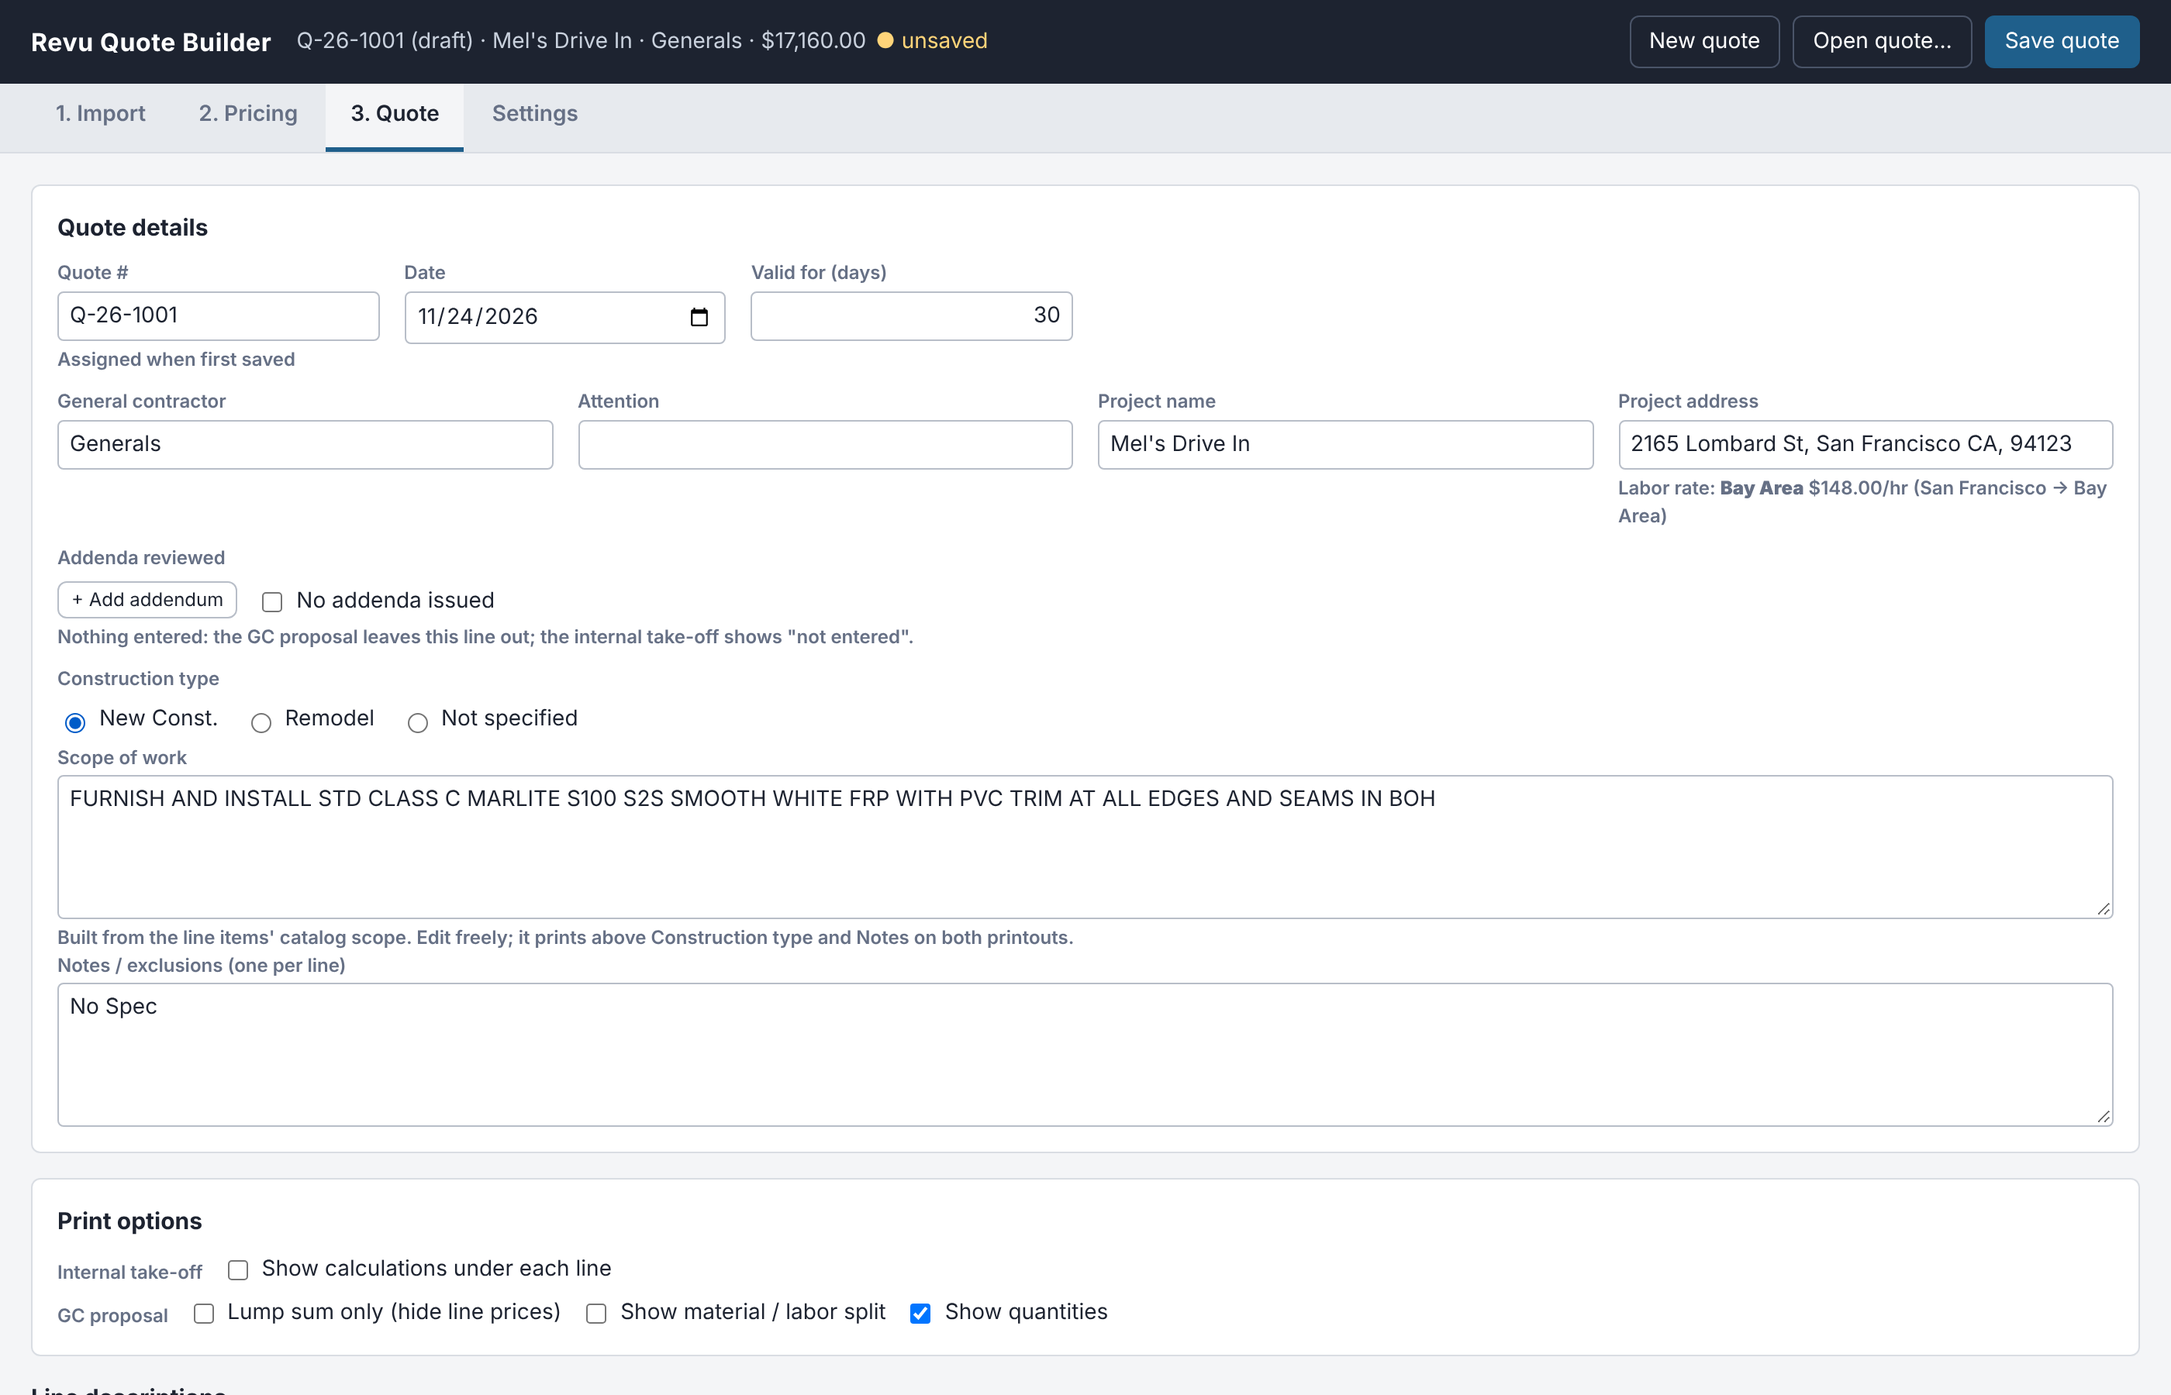
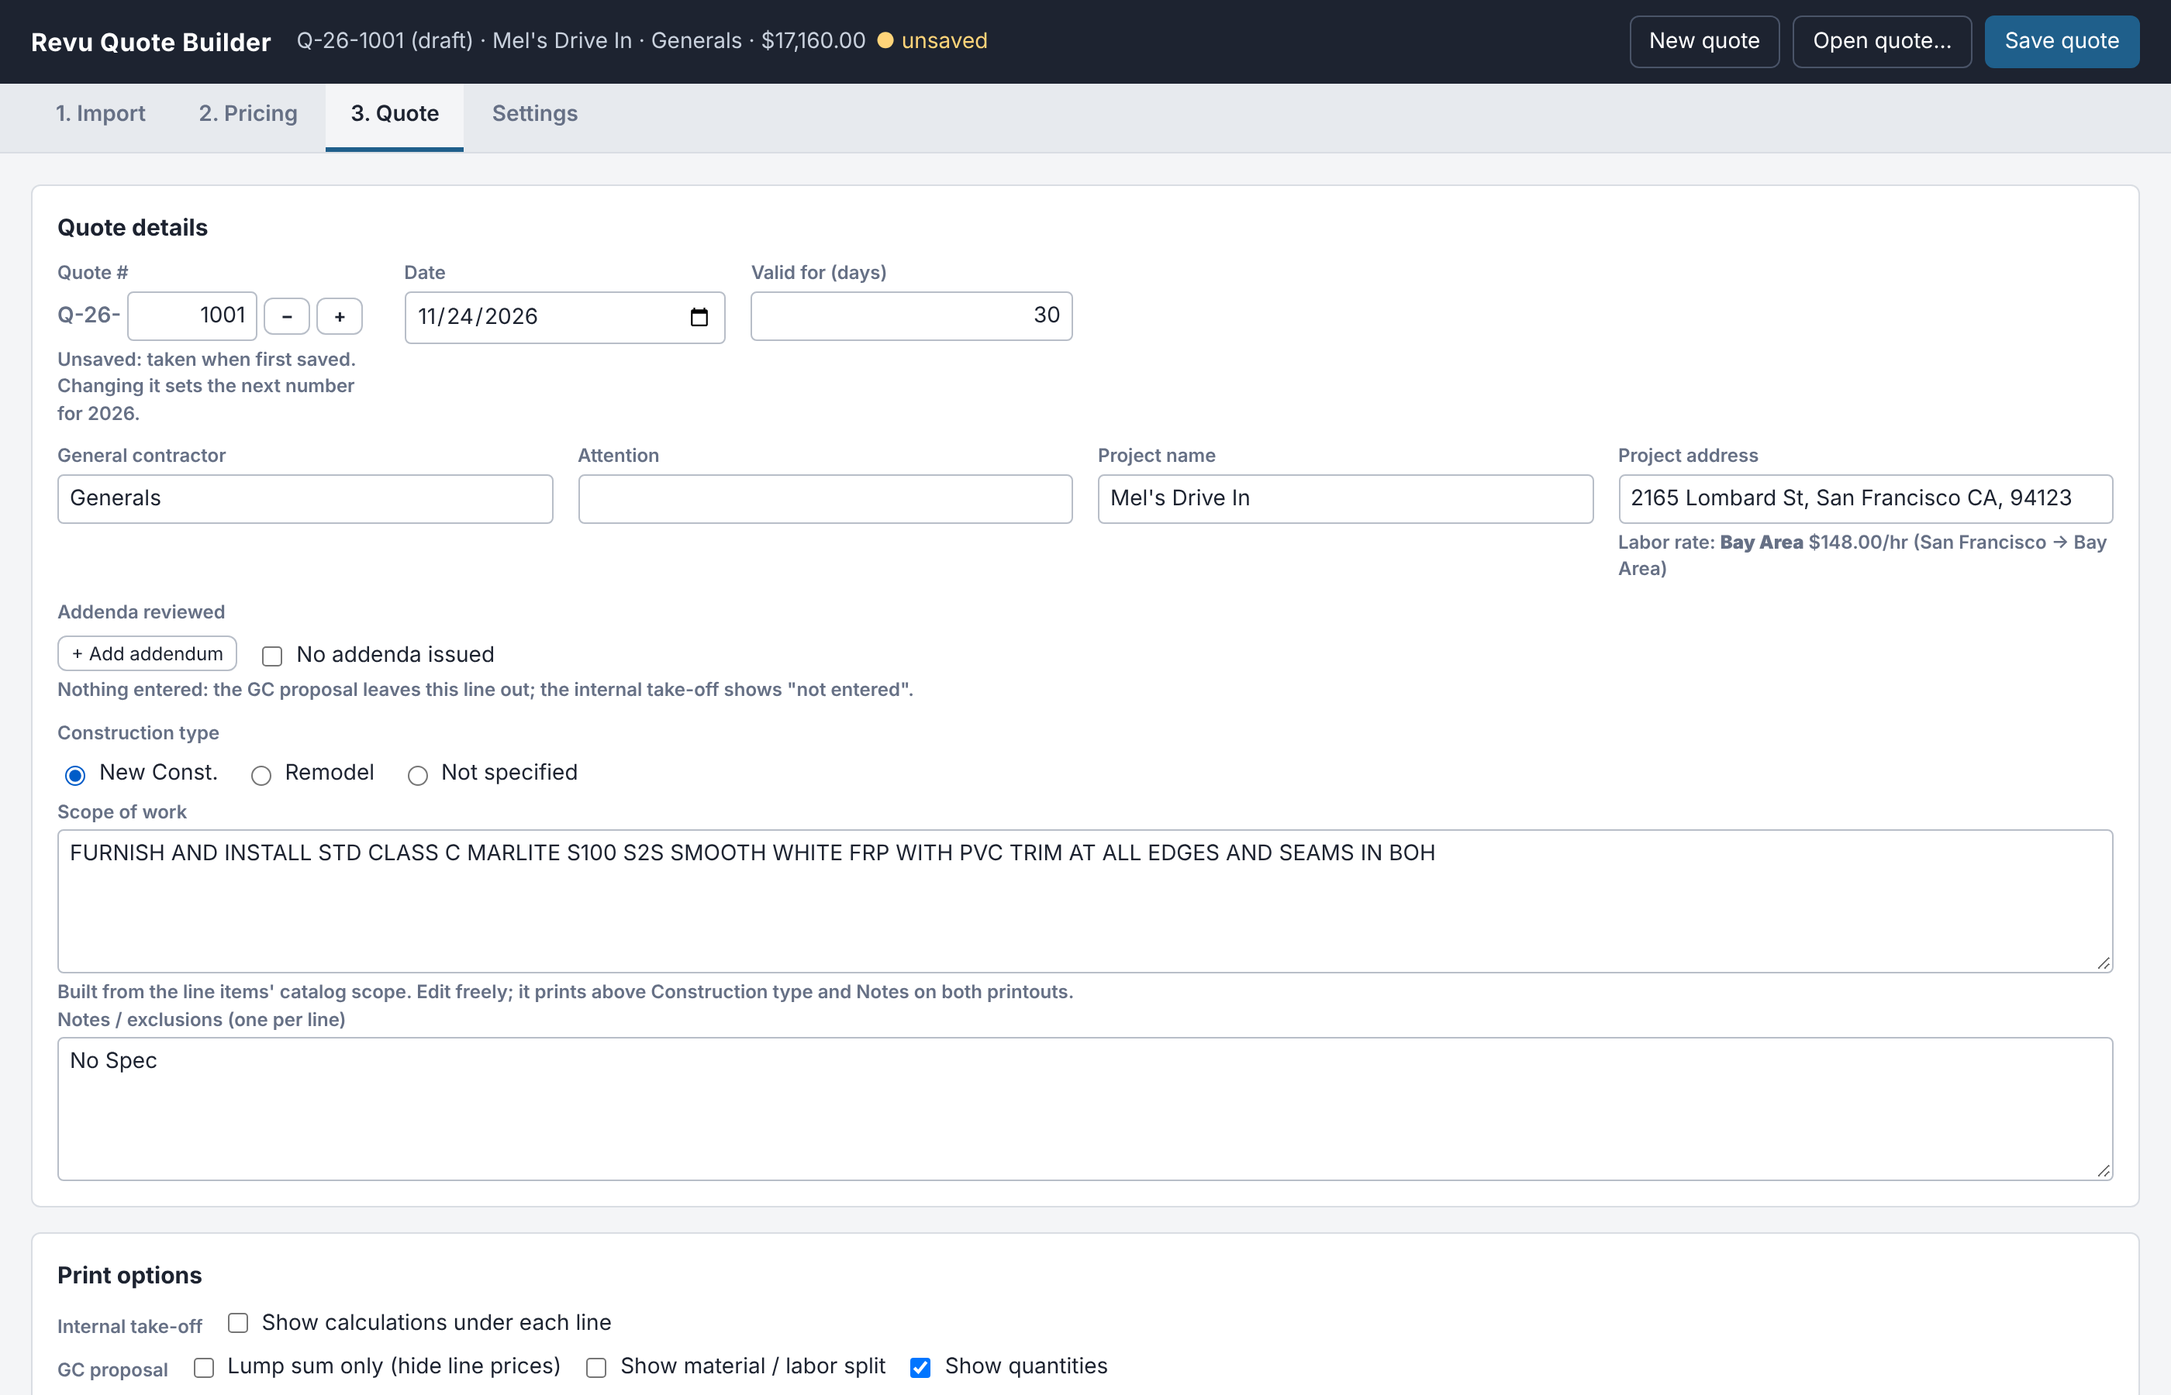
Set or step the quote number (− / +) on the Quote tab and in Settings (#17)
Quote tab number box with − / + (unsaved: sets that year's next number; saved: renumbers that quote and moves the counter past it); − / + on Settings Next quote #; warns when going back to a number already saved; settings v7 seeds the highest-used record; README and screenshot updated.

diff --git a/js/app.js b/js/app.js
@@ -176,6 +176,30 @@
     global.scrollTo(0, scrollY);
   }
 
+  /** Quote # field: "Q-26-" + number box with − / + (or a plain text box for a custom number). */
+  function quoteNumberInput(q) {
+    var parts = Q.splitNumber(q.number);
+    if (!parts) return textInput('q-number', q.number, ' data-q="number"');
+    return '<div class="qnum"><span class="qnum-head" id="q-num-head">' + esc(parts.head) + '</span>' +
+      numInput('q-numpart', parts.n, ' data-qnum="1" style="width:84px"') +
+      '<button type="button" class="small" data-act="qnum-step" data-d="-1" title="One lower">−</button>' +
+      '<button type="button" class="small" data-act="qnum-step" data-d="1" title="One higher">+</button></div>';
+  }
+  function quoteNumberHint(q) {
+    if (q.numberCommitted) return 'Saved number. Changing it renumbers this quote only.';
+    var parts = Q.splitNumber(q.number);
+    var warn = parts ? Q.numberWarning(state.settings, q.date, parts.n) : '';
+    return 'Unsaved: taken when first saved. Changing it sets the next number for ' +
+      (state.settings.quote.includeYear !== false ? (U.parseISODate(q.date) || new Date()).getFullYear() : 'all years') + '.' +
+      (warn ? ' <strong class="warn-text">' + esc(warn) + '</strong>' : '');
+  }
+  function setQuoteNumberPart(n) {
+    if (!isFinite(n) || n < 1) return false;
+    Q.setNumberPart(state.quote, state.settings, n);
+    S.saveSettings(state.settings);
+    return true;
+  }
+
   function addendaHint(q) {
     var t = Q.addendaText(q);
     return t ? 'Prints as: <strong>ADDENDA REVIEWED: ' + esc(t) + '</strong>'
@@ -222,6 +246,12 @@
     if (ah) ah.innerHTML = areaHint();
     var adh = $('#q-addm-hint');
     if (adh) adh.innerHTML = addendaHint(state.quote);
+    var nh = $('#q-num-hint');
+    if (nh) nh.innerHTML = quoteNumberHint(state.quote);
+    var np = $('#q-numpart'), parts = Q.splitNumber(state.quote.number);
+    if (np && parts && doc.activeElement !== np && String(parts.n) !== np.value) np.value = parts.n;
+    var nhd = $('#q-num-head');
+    if (nhd && parts) nhd.textContent = parts.head;
     var qn = $('#q-number');
     if (qn && doc.activeElement !== qn && qn.value !== state.quote.number) qn.value = state.quote.number;
     var prev = $('#preview');
@@ -637,7 +667,7 @@
       '<div class="card">' +
         '<h3>Quote details</h3>' +
         '<div class="grid">' +
-          field('Quote #', textInput('q-number', q.number, ' data-q="number"') + '<span class="hint">' + (q.numberCommitted ? 'Assigned' : 'Assigned when first saved') + '</span>') +
+          field('Quote #', quoteNumberInput(q) + '<span class="hint" id="q-num-hint">' + quoteNumberHint(q) + '</span>') +
           field('Date', '<input type="date" id="q-date" data-q="date"' + attr('value', q.date) + '>') +
           field('Valid for (days)', numInput('q-valid', q.validDays, ' data-q="validDays"')) +
         '</div>' +
@@ -871,7 +901,10 @@
           field('Sales tax on material (%)', numInput('s-tax', s.terms.taxPct, ' data-s="terms.taxPct"')) +
           field('Quote # prefix', textInput('s-prefix', s.quote.prefix, ' data-s="quote.prefix"')) +
           field('Next quote # (' + (s.quote.includeYear !== false ? new Date().getFullYear() : 'all years') + ')',
-            numInput('s-next', Q.nextNumberFor(s, U.toISODate(new Date())), ' data-s="quote.counters.' + Q.counterKey(s, U.toISODate(new Date())) + '"')) +
+            '<div class="qnum">' + numInput('s-next', Q.nextNumberFor(s, U.toISODate(new Date())), ' data-s="quote.counters.' + Q.counterKey(s, U.toISODate(new Date())) + '" style="width:90px"') +
+            '<button type="button" class="small" data-act="next-step" data-d="-1" title="One lower">−</button>' +
+            '<button type="button" class="small" data-act="next-step" data-d="1" title="One higher">+</button></div>' +
+            '<span class="hint warn-text" id="s-next-warn">' + esc(Q.numberWarning(s, U.toISODate(new Date()), Q.nextNumberFor(s, U.toISODate(new Date())))) + '</span>') +
           field('First quote # each year', numInput('s-start', s.quote.startNumber, ' data-s="quote.startNumber"')) +
           '<label class="field"><span>Year in quote #</span><span class="check" style="padding:6px 0"><input type="checkbox" id="s-qyear" data-s="quote.includeYear"' +
             (s.quote.includeYear !== false ? ' checked' : '') + '> Include year</span></label>' +
@@ -1081,6 +1114,11 @@
       return;
     }
     if (t.dataset.map !== undefined) { setMapping(t.dataset.map, t.value); return; }
+    if (t.dataset.qnum !== undefined) {
+      var qn = parseInt(String(t.value).replace(/[^\d]/g, ''), 10);
+      if (setQuoteNumberPart(qn)) changed('light');
+      return;
+    }
     if (t.dataset.addm !== undefined) {
       var ad = (state.quote.addenda || []).filter(function (x) { return x.id === t.dataset.addm; })[0];
       if (!ad) return;
@@ -1104,11 +1142,14 @@
       else if (t.dataset.lines) sv = t.value.split(/\r?\n/).map(function (s) { return s.trim(); }).filter(Boolean);
       else if (t.classList.contains('num')) sv = parseNumOrRaw(t.value);
       else sv = t.value;
+
       setPath(state.settings, t.dataset.s, sv);
       // Switching the year on/off changes which counter "Next quote #" edits: redraw Settings.
       settingsChanged(t.dataset.s === 'quote.includeYear' ? 'full' : undefined);
       var qp = $('#s-qpreview');
       if (qp) qp.value = Q.formatQuoteNumber(state.settings, U.toISODate(new Date()));
+      var sw = $('#s-next-warn');
+      if (sw) sw.textContent = Q.numberWarning(state.settings, U.toISODate(new Date()), Q.nextNumberFor(state.settings, U.toISODate(new Date())));
       var dr = $('#s-dayrate');
       if (dr) dr.value = dayRatesText(state.settings.labor);
       return;
@@ -1179,6 +1220,21 @@
         if (Object.keys(keep).length) q.lineOverrides[b.dataset.line] = keep;
         else delete q.lineOverrides[b.dataset.line];
         changed();
+        break;
+      }
+      case 'qnum-step': {
+        var cur = Q.splitNumber(q.number);
+        if (cur && setQuoteNumberPart(cur.n + (+b.dataset.d))) changed();
+        break;
+      }
+      case 'next-step': {
+        var today = U.toISODate(new Date());
+        var nx = Q.nextNumberFor(s, today) + (+b.dataset.d);
+        if (nx >= 1) {
+          s.quote.counters = s.quote.counters || {};
+          s.quote.counters[Q.counterKey(s, today)] = nx;
+          settingsChanged('full');
+        }
         break;
       }
       case 'addm-add': {

diff --git a/js/quote.js b/js/quote.js
@@ -125,9 +125,56 @@
     var n = nextNumberFor(settings, quote.date);
     quote.number = formatQuoteNumber(settings, quote.date, n);
     quote.numberCommitted = true;
+    noteUsed(settings, counterKey(settings, quote.date), n);
     settings.quote.counters = settings.quote.counters || {};
     settings.quote.counters[counterKey(settings, quote.date)] = n + 1;
     return true;
+  }
+
+  /** "Q-26-1047" -> { head: "Q-26-", n: 1047 }; null if the number does not end in digits. */
+  function splitNumber(number) {
+    var m = /^(.*?)(\d+)$/.exec(String(number || ''));
+    return m ? { head: m[1], n: parseInt(m[2], 10) } : null;
+  }
+
+  /** Highest number saved for a counter on this computer (settings.quote.highest), or null. */
+  function highestUsed(settings, key) {
+    var h = parseInt(((settings.quote || {}).highest || {})[key], 10);
+    return isFinite(h) ? h : null;
+  }
+  function noteUsed(settings, key, n) {
+    var h = highestUsed(settings, key);
+    settings.quote.highest = settings.quote.highest || {};
+    if (h === null || n > h) settings.quote.highest[key] = n;
+  }
+
+  /**
+   * Set the number part of a quote's number (Quote tab box / − + buttons).
+   *   Unsaved quote: sets that year's next number (the counter), and the draft shows it.
+   *   Saved quote:   renumbers this quote only; the counter moves past it if needed, so it is never reused.
+   */
+  function setNumberPart(quote, settings, n) {
+    n = Math.max(1, Math.round(n));
+    var key = counterKey(settings, quote.date);
+    settings.quote.counters = settings.quote.counters || {};
+    if (!quote.numberCommitted) {
+      settings.quote.counters[key] = n;
+      quote.number = formatQuoteNumber(settings, quote.date, n);
+    } else {
+      var parts = splitNumber(quote.number);
+      quote.number = (parts ? parts.head : '') + n;
+      noteUsed(settings, key, n);
+      if (n >= nextNumberFor(settings, quote.date)) settings.quote.counters[key] = n + 1;
+    }
+    return quote.number;
+  }
+
+  /** Warning text if an unsaved quote would get a number already saved on this computer this year. */
+  function numberWarning(settings, isoDate, n) {
+    var h = highestUsed(settings, counterKey(settings, isoDate));
+    if (h === null || n > h) return '';
+    return 'Numbers up to ' + formatQuoteNumber(settings, isoDate, h) + ' have already been saved on this computer, so ' +
+      formatQuoteNumber(settings, isoDate, n) + ' may already be in use.';
   }
 
   /**
@@ -631,6 +678,10 @@
     normalizeQuote: normalizeQuote,
     ratesFromSettings: ratesFromSettings,
     commitNumber: commitNumber,
+    splitNumber: splitNumber,
+    setNumberPart: setNumberPart,
+    numberWarning: numberWarning,
+    highestUsed: highestUsed,
     formatQuoteNumber: formatQuoteNumber,
     nextNumberFor: nextNumberFor,
     counterKey: counterKey,

diff --git a/test/tests.html b/test/tests.html
@@ -913,6 +913,32 @@
       var flat = { quote: { prefix: 'Q-', includeYear: false, startNumber: 1001, counters: { all: 1003 } } };
       eq(Quote.formatQuoteNumber(flat, '2026-05-01'), 'Q-1003', 'Include year off -> one running counter, Q-1003');
     });
+    test('setting / stepping the quote number', function () {
+      var s = freshSettings();
+      var q = Quote.newQuote(s); q.date = '2026-11-24';
+      eq(Quote.splitNumber('Q-26-1047').head + '|' + Quote.splitNumber('Q-26-1047').n, 'Q-26-|1047', 'split prefix-year and number');
+      eq(Quote.splitNumber('CUSTOM'), null, 'custom text has no number part');
+      Quote.setNumberPart(q, s, 1050);
+      eq(q.number, 'Q-26-1050', 'unsaved quote shows the number set');
+      eq(Quote.nextNumberFor(s, '2026-06-01'), 1050, '... and that is now the 2026 counter');
+      Quote.commitNumber(q, s);
+      eq(q.number + ' / next ' + Quote.nextNumberFor(s, '2026-06-01'), 'Q-26-1050 / next 1051', 'save takes it and counts on');
+      Quote.setNumberPart(q, s, 1060);
+      eq(q.number + ' / next ' + Quote.nextNumberFor(s, '2026-06-01'), 'Q-26-1060 / next 1061', 'renumbering a saved quote moves the counter past it');
+      Quote.setNumberPart(q, s, 1055);
+      eq(q.number + ' / next ' + Quote.nextNumberFor(s, '2026-06-01'), 'Q-26-1055 / next 1061', 'renumbering lower leaves the counter alone');
+      var d = Quote.newQuote(s); d.date = '2026-12-01';
+      Quote.setNumberPart(d, s, 1049);
+      ok(/already been saved/.test(Quote.numberWarning(s, d.date, 1049)), 'stepping back below a saved number warns');
+      eq(Quote.numberWarning(s, d.date, 1061), '', 'a fresh number does not');
+      Quote.setNumberPart(d, s, 0);
+      eq(d.number, 'Q-26-1', 'never below 1');
+      var up = RqbStorage.normalizeSettings({ version: 6, quote: { prefix: 'Q-', includeYear: true, startNumber: 1001, counters: { '2026': 1048 } } });
+      eq(Quote.highestUsed(up, '2026'), 1047, 'upgrading older settings: everything below the counter counts as used');
+      var t2 = freshSettings(); var e = Quote.newQuote(t2); e.date = '2026-03-01';
+      Quote.setNumberPart(e, t2, 1050); Quote.setNumberPart(e, t2, 1049);
+      eq(Quote.numberWarning(t2, e.date, 1049), '', 'stepping an unsaved draft up and down: no false warning');
+    });
     test('saved settings move to per-year counters', function () {
       var yr = String(new Date().getFullYear());
       var up = RqbStorage.normalizeSettings({ version: 4, quote: { nextNumber: 1050, prefix: 'Q-', includeYear: true } });

diff --git a/data/defaults.js b/data/defaults.js
@@ -8,7 +8,7 @@
  *   roundTo       optional: round the priced quantity up to this multiple (default: quantity.roundTo for sf, 1 otherwise)
  */
 window.DEFAULTS = {
-  version: 6,   // settings format; see RqbStorage.normalizeSettings for upgrades
+  version: 7,   // settings format; see RqbStorage.normalizeSettings for upgrades
   catalog: [
     {
       subject: "FRP-8'",
@@ -77,5 +77,6 @@ window.DEFAULTS = {
   // Quote numbers: prefix + 2-digit year of the quote date + number, e.g. Q-26-1001 = first quote of 2026.
   // Each year counts from startNumber again (counters: { "2026": next number for 2026, ... }).
   // includeYear: false -> one running counter ("all"), e.g. Q-1001.
-  quote: { prefix: "Q-", includeYear: true, startNumber: 1001, counters: {} }
+  // highest: { "2026": 1047 } = highest number saved per year on this computer (used to warn before reusing one).
+  quote: { prefix: "Q-", includeYear: true, startNumber: 1001, counters: {}, highest: {} }
 };

diff --git a/js/storage.js b/js/storage.js
@@ -61,6 +61,16 @@
     if (fromVersion < 6 && out.company && out.company.logoDataUrl === 'img/universal-plastics-logo.png') {
       out.company.logoDataUrl = 'img/letterhead.png';
     }
+    // v6 -> v7: remember the highest number saved per year. Older settings only know the counter,
+    // so assume everything below it was used.
+    if (fromVersion < 7 && out.quote) {
+      out.quote.highest = out.quote.highest || {};
+      var st = parseInt(out.quote.startNumber, 10) || 1001;
+      Object.keys(out.quote.counters || {}).forEach(function (k) {
+        var c = parseInt(out.quote.counters[k], 10);
+        if (isFinite(c) && c > st && out.quote.highest[k] === undefined) out.quote.highest[k] = c - 1;
+      });
+    }
     out.version = global.DEFAULTS.version;
     out.catalog = (out.catalog || []).map(global.Pricing.normalizeCatalogItem);
     if (!Array.isArray(out.terms.notes)) out.terms.notes = String(out.terms.notes || '').split(/\r?\n/).filter(Boolean);

diff --git a/css/app.css b/css/app.css
@@ -215,3 +215,9 @@ table.data td.item-cell { min-width: 220px; }
 
 /* Quote tab: addenda reviewed */
 .addm-row { align-items: flex-end; margin-top: 4px; }
+
+/* Quote number: "Q-26-" + number box with − / + */
+.qnum { display: flex; align-items: center; gap: 4px; }
+.qnum-head { font-weight: 600; color: var(--muted); }
+.qnum button { min-width: 30px; font-weight: 700; }
+.warn-text, .field > span.warn-text { color: #a52020; }

diff --git a/README.md b/README.md
@@ -378,6 +378,10 @@ On the GC proposal the total becomes **Base bid**, followed by an underlined **A
 - **Quote numbers** are `prefix-YY-number`. **Q-26-1001** is the first quote of 2026, and each new year starts again at 1001 (Q-27-1001).
   - The year is the last two digits of the quote's date. A quote dated December 2026 but saved in January still gets the next 2026 number, because each year keeps its own counter (`quote.counters`).
   - *Settings → Terms & numbering* has the prefix, **Next quote #** for the current year, **First quote # each year** (1001), an *Include year* switch (off gives one running counter, e.g. Q-1001) and a preview of the next number.
+  - **Setting the number:** the Quote tab shows `Q-26-` plus a number box with **−** / **+** buttons (or type a number). Settings → *Next quote #* has the same buttons.
+    - On an unsaved quote, changing it sets that year's next number. Example: set 1050, save, and the next quote is 1051.
+    - On a saved quote it renumbers that quote only, and the counter moves past the new number if needed.
+    - The highest number saved each year (`quote.highest`) is remembered, and going back to a number at or below it shows a warning, but is still allowed.
   - A new quote shows its provisional number marked "(draft)". It follows the quote date and Settings until the first save, which takes the number and moves that year's counter on.
   - Later saves keep the number. Typing a number by hand fixes it. Quotes saved earlier keep their numbers.
 
